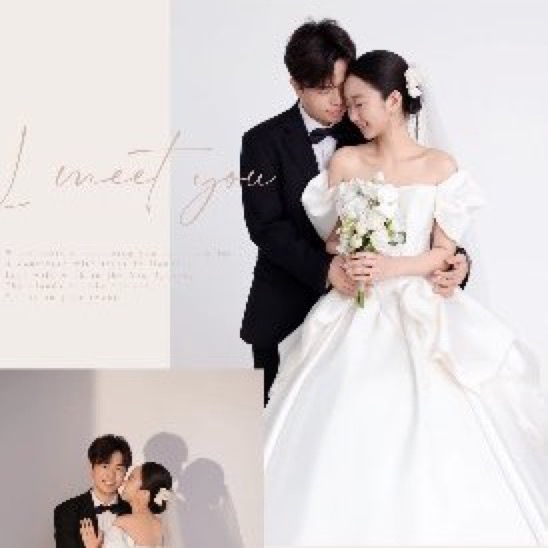
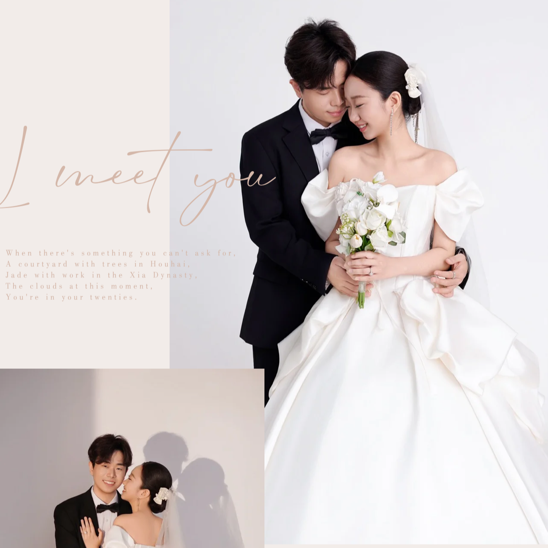
fix: update invitation image and couple names
- Replace invitation.jpg with new invitation.png (1206x8433)
- Update couple names: 黄竟通 & 姜雪澳
- Regenerate share-thumb.jpg from new image top crop (548x548)

diff --git a/static/wedding/index.html b/static/wedding/index.html
@@ -4,16 +4,16 @@
     <meta charset="UTF-8">
     <meta name="viewport" content="width=device-width, initial-scale=1.0, maximum-scale=1.0, user-scalable=no">
     <meta name="theme-color" content="#f7efe6">
-    <title>曹忍超 ♥ 张宁波 · 婚礼邀请函</title>
+    <title>黄竟通 ♥ 姜雪澳 · 婚礼邀请函</title>
     <meta name="description" content="2026年10月11日 · 福建省泉州市洛江区 · 海悦府宴会酒店(洛江店)">
 
     <!-- 微信分享专用标签 -->
-    <meta name="wx.share.title" content="曹忍超 ♥ 张宁波 · 婚礼邀请函">
+    <meta name="wx.share.title" content="黄竟通 ♥ 姜雪澳 · 婚礼邀请函">
     <meta name="wx.share.desc" content="2026年10月11日(周六)上午11:00 · 泉州海悦府宴会酒店 · 诚邀您共赴这场关于爱与承诺的邀约">
     <meta name="wx.share.img" content="https://arc-huangjingtong.com/wedding/share-thumb.jpg">
 
     <!-- Open Graph 标签(其他平台兜底) -->
-    <meta property="og:title" content="曹忍超 ♥ 张宁波 · 婚礼邀请函">
+    <meta property="og:title" content="黄竟通 ♥ 姜雪澳 · 婚礼邀请函">
     <meta property="og:description" content="2026年10月11日(周六)上午11:00 · 泉州海悦府宴会酒店 · 诚邀您共赴这场关于爱与承诺的邀约">
     <meta property="og:image" content="https://arc-huangjingtong.com/wedding/share-thumb.jpg">
     <meta property="og:type" content="website">
@@ -290,7 +290,7 @@
     <header class="ornament">
         <div class="ornament-rule">Wedding Invitation</div>
         <h1 class="names">
-            曹忍超<span class="heart">♥</span>张宁波
+            黄竟通<span class="heart">♥</span>姜雪澳
         </h1>
         <div class="subtitle">诚 邀 莅 临</div>
         <div class="date-line">
@@ -299,7 +299,7 @@
     </header>
 
     <figure class="invitation-card">
-        <img src="./invitation.jpg" alt="曹忍超 & 张宁波 婚礼邀请函" loading="eager" decoding="async">
+        <img src="./invitation.png" alt="黄竟通 & 姜雪澳 婚礼邀请函" loading="eager" decoding="async">
     </figure>
 
     <section class="details" aria-label="婚礼信息">
